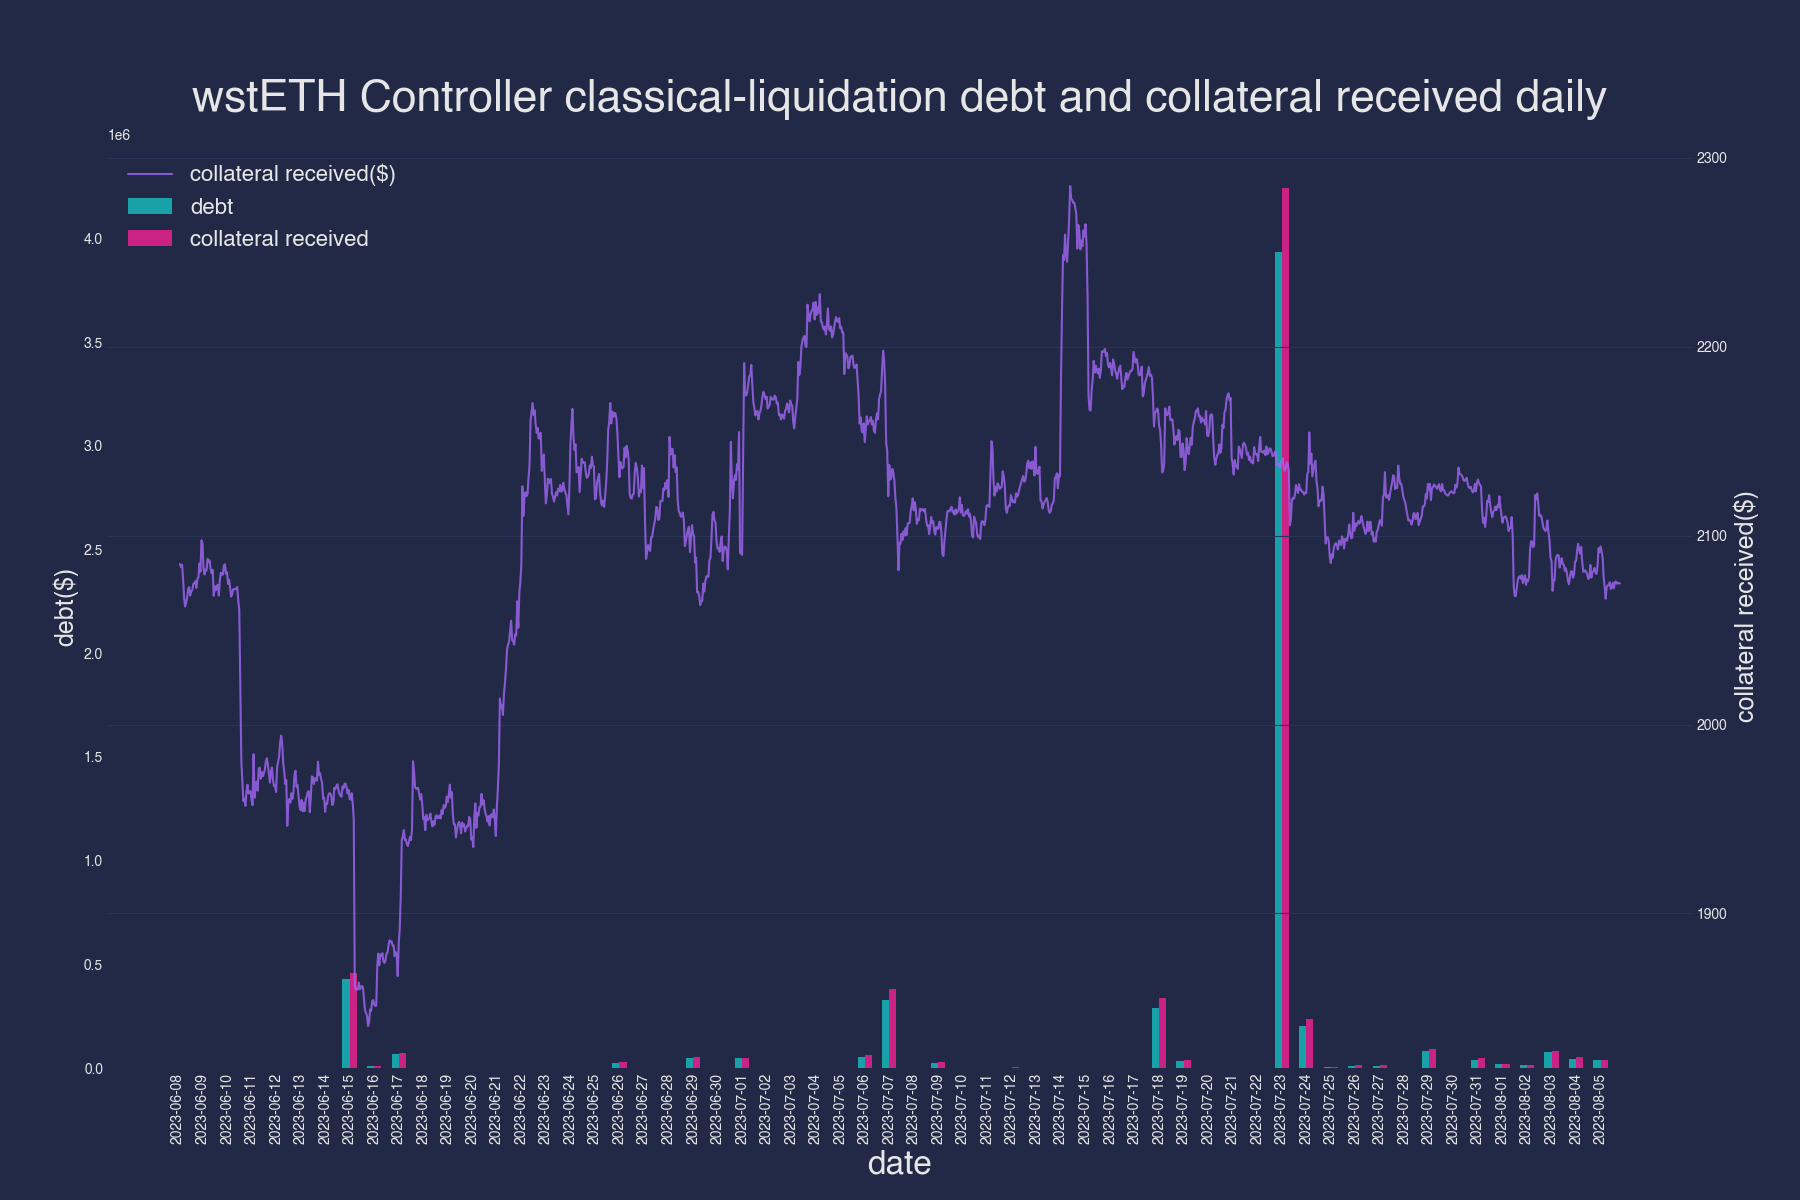
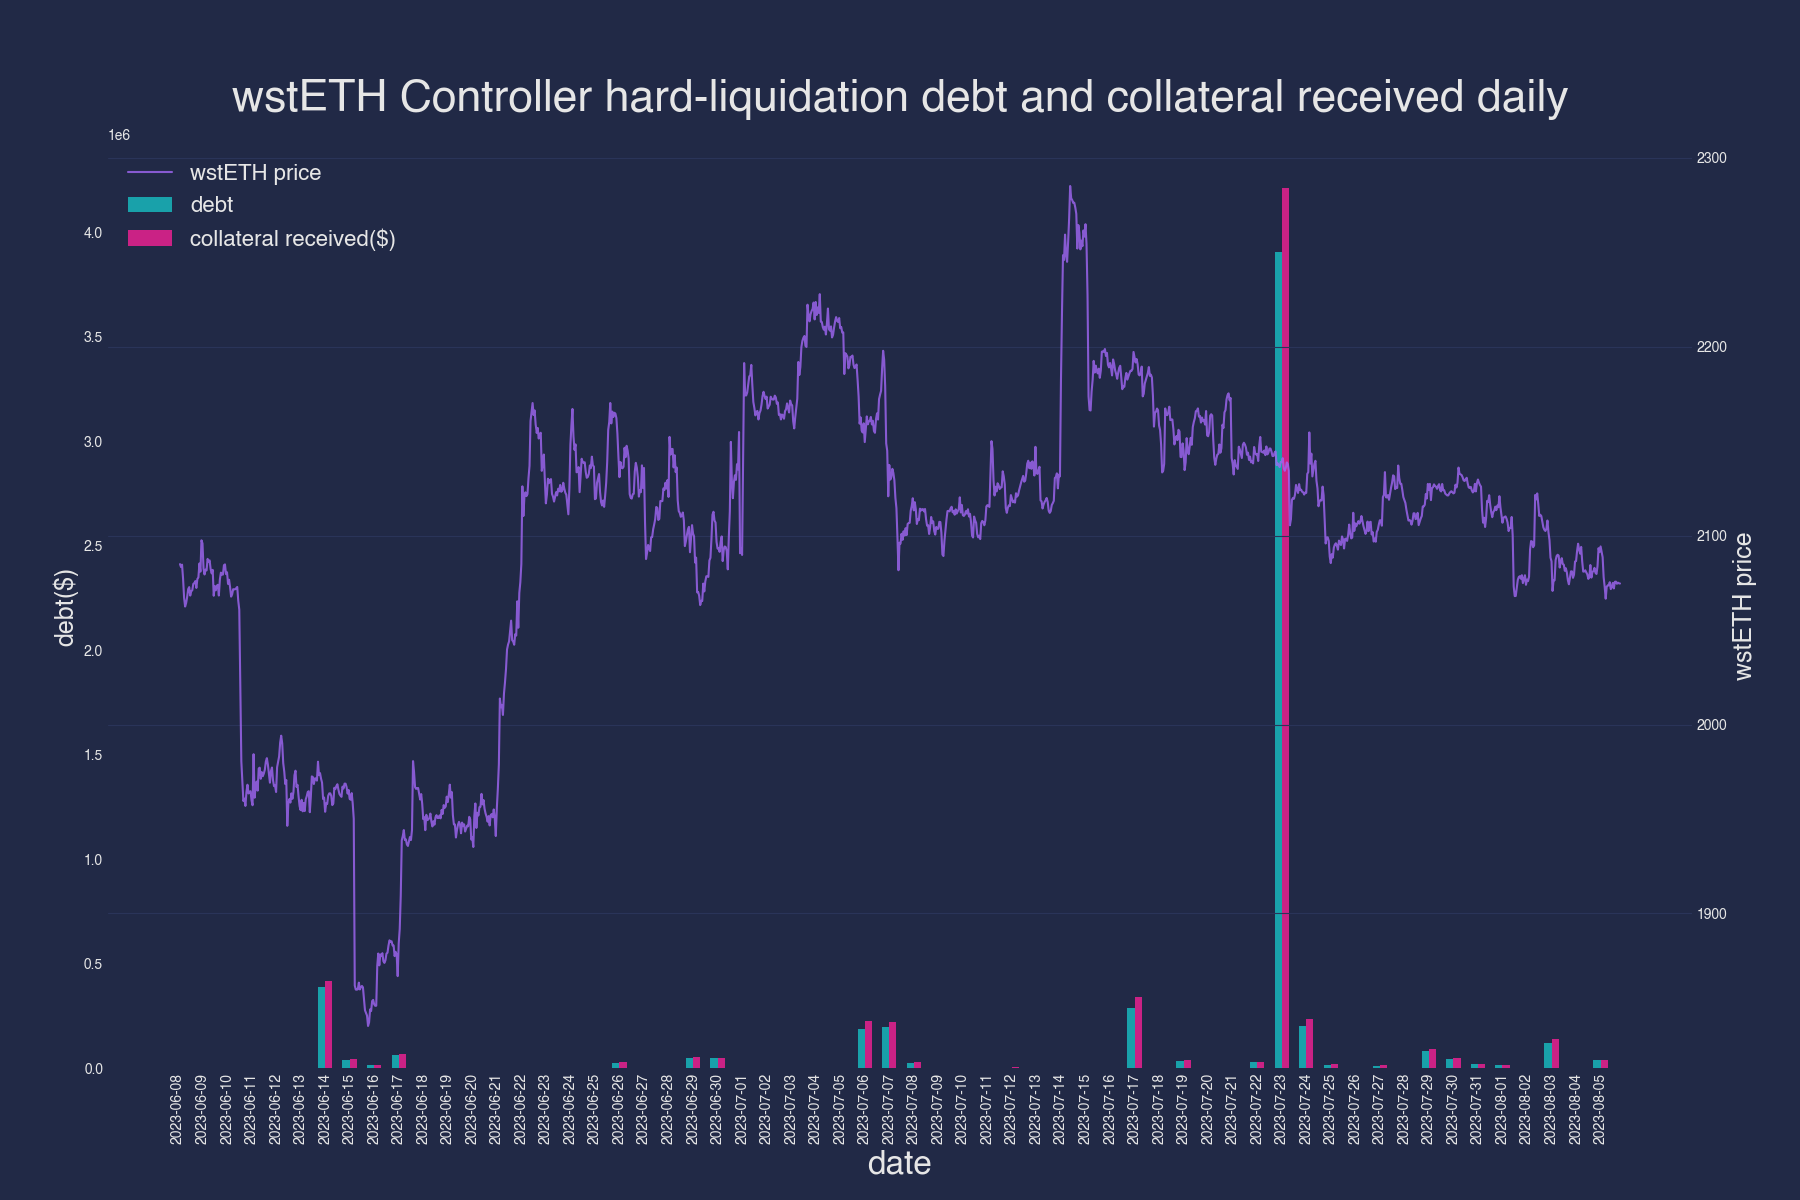
modify stat img label

diff --git a/crvusd_arbitrage_analytics/analytics/arbitrage_statistics.py b/crvusd_arbitrage_analytics/analytics/arbitrage_statistics.py
@@ -838,7 +838,7 @@ def draw_daily_liquidations(symbol, data_dir=DEFAULT_COINGECKO_PRICES_HISTORICAL
 
         bar_datas = {
             "debt": debts,
-            "collateral received": received_usds,
+            "collateral received($)": received_usds,
         }
 
         _draw_daily_bars_multi(
@@ -847,7 +847,7 @@ def draw_daily_liquidations(symbol, data_dir=DEFAULT_COINGECKO_PRICES_HISTORICAL
             x1_list=prices_date,
             y1_list=prices,
             y0_axis_label="debt($)",
-            y1_axis_label="collateral received($)",
+            y1_axis_label="%s price" % (symbol),
             x_ticks=x_ticks,
             title="%s Controller hard-liquidation debt and collateral received daily"
             % (symbol),
